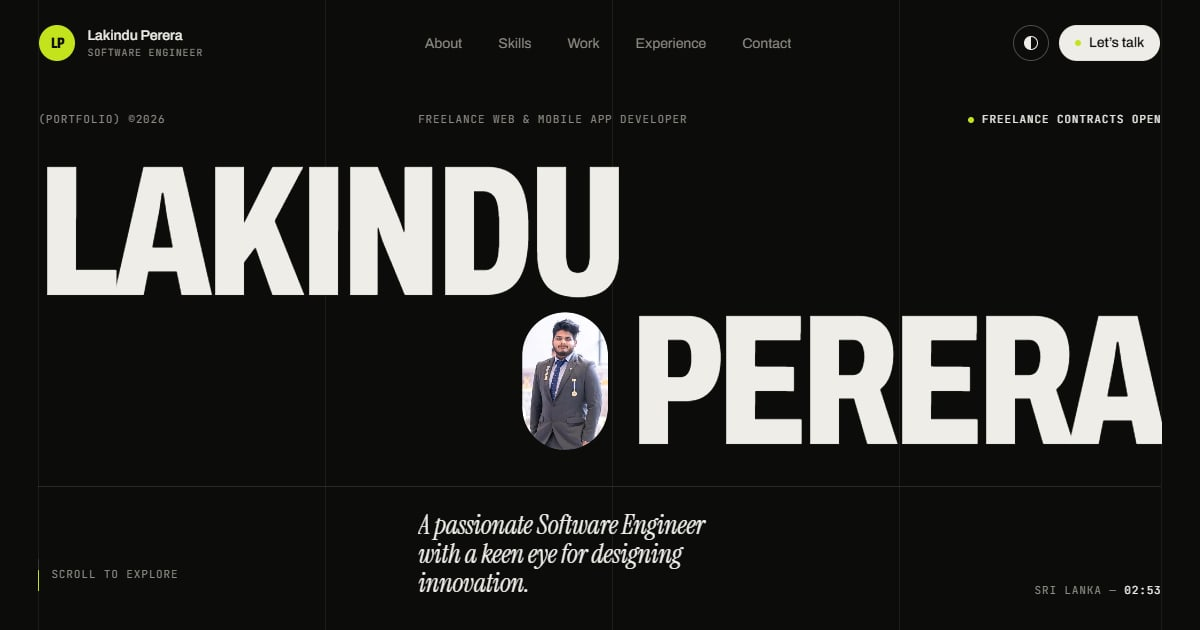
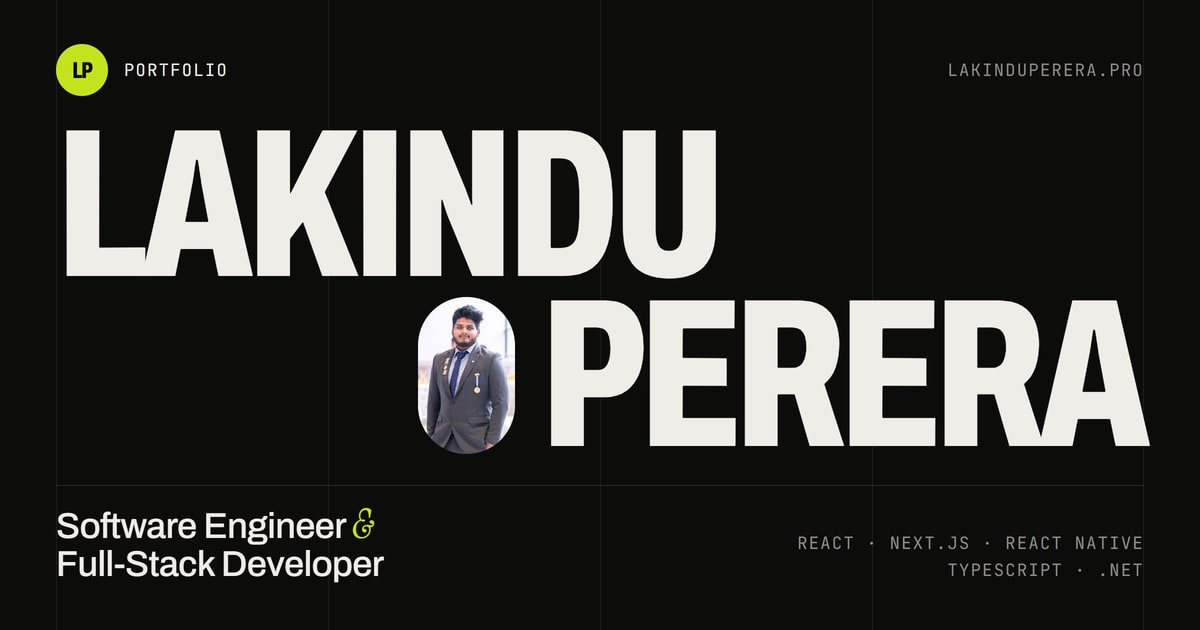
Added SEO things

diff --git a/index.html b/index.html
@@ -22,25 +22,26 @@
     <link rel="apple-touch-icon" sizes="180x180" href="/apple-touch-icon.png" />
     <link rel="manifest" href="/site.webmanifest" />
 
-    <!-- Open Graph (LinkedIn, Facebook, WhatsApp, Slack, …) -->
+    <!-- Open Graph (LinkedIn, Facebook, WhatsApp, Slack, …).
+         og-image.jpg is a 1200×630 card in the site's own branding; bump ?v= when it changes so platforms re-fetch it. -->
     <meta property="og:type" content="website" />
     <meta property="og:site_name" content="Lakindu Perera" />
     <meta property="og:locale" content="en_US" />
     <meta property="og:url" content="https://www.lakinduperera.pro/" />
     <meta property="og:title" content="Lakindu Perera — Software Engineer &amp; Full-Stack Developer" />
-    <meta property="og:description" content="Web and mobile applications built with React, Next.js, React Native, TypeScript and .NET. Selected work, experience and contact." />
-    <meta property="og:image" content="https://www.lakinduperera.pro/og-image.jpg" />
+    <meta property="og:description" content="Portfolio of Lakindu Perera, a software engineer building web and mobile applications with React, Next.js, React Native, TypeScript and .NET." />
+    <meta property="og:image" content="https://www.lakinduperera.pro/og-image.jpg?v=2" />
     <meta property="og:image:width" content="1200" />
     <meta property="og:image:height" content="630" />
     <meta property="og:image:type" content="image/jpeg" />
-    <meta property="og:image:alt" content="Lakindu Perera — portfolio home page" />
+    <meta property="og:image:alt" content="Lakindu Perera — Software Engineer &amp; Full-Stack Developer. React, Next.js, React Native, TypeScript and .NET." />
 
     <!-- X / Twitter -->
     <meta name="twitter:card" content="summary_large_image" />
     <meta name="twitter:title" content="Lakindu Perera — Software Engineer &amp; Full-Stack Developer" />
-    <meta name="twitter:description" content="Web and mobile applications built with React, Next.js, React Native, TypeScript and .NET." />
-    <meta name="twitter:image" content="https://www.lakinduperera.pro/og-image.jpg" />
-    <meta name="twitter:image:alt" content="Lakindu Perera — portfolio home page" />
+    <meta name="twitter:description" content="Portfolio of Lakindu Perera, a software engineer building web and mobile applications with React, Next.js, React Native, TypeScript and .NET." />
+    <meta name="twitter:image" content="https://www.lakinduperera.pro/og-image.jpg?v=2" />
+    <meta name="twitter:image:alt" content="Lakindu Perera — Software Engineer &amp; Full-Stack Developer. React, Next.js, React Native, TypeScript and .NET." />
 
     <!-- Structured data: the site and the person it represents. -->
     <script type="application/ld+json">
